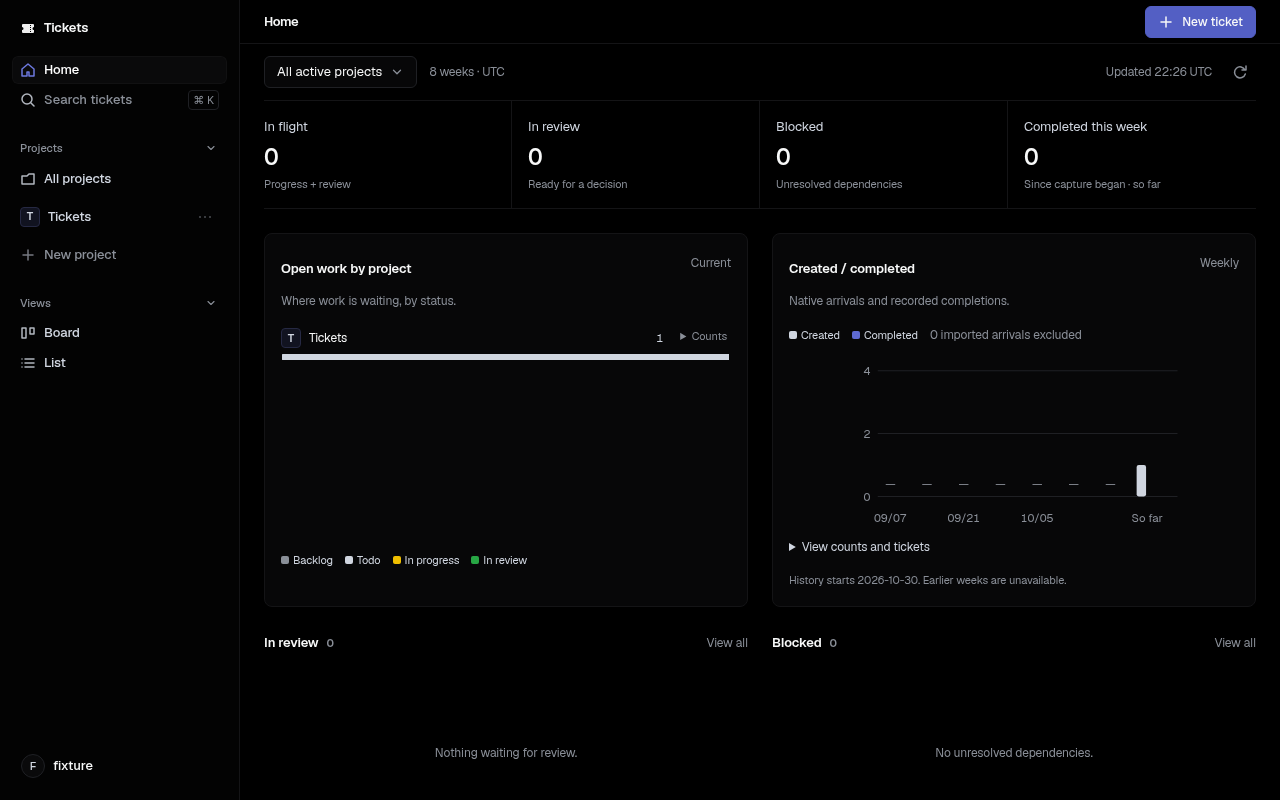
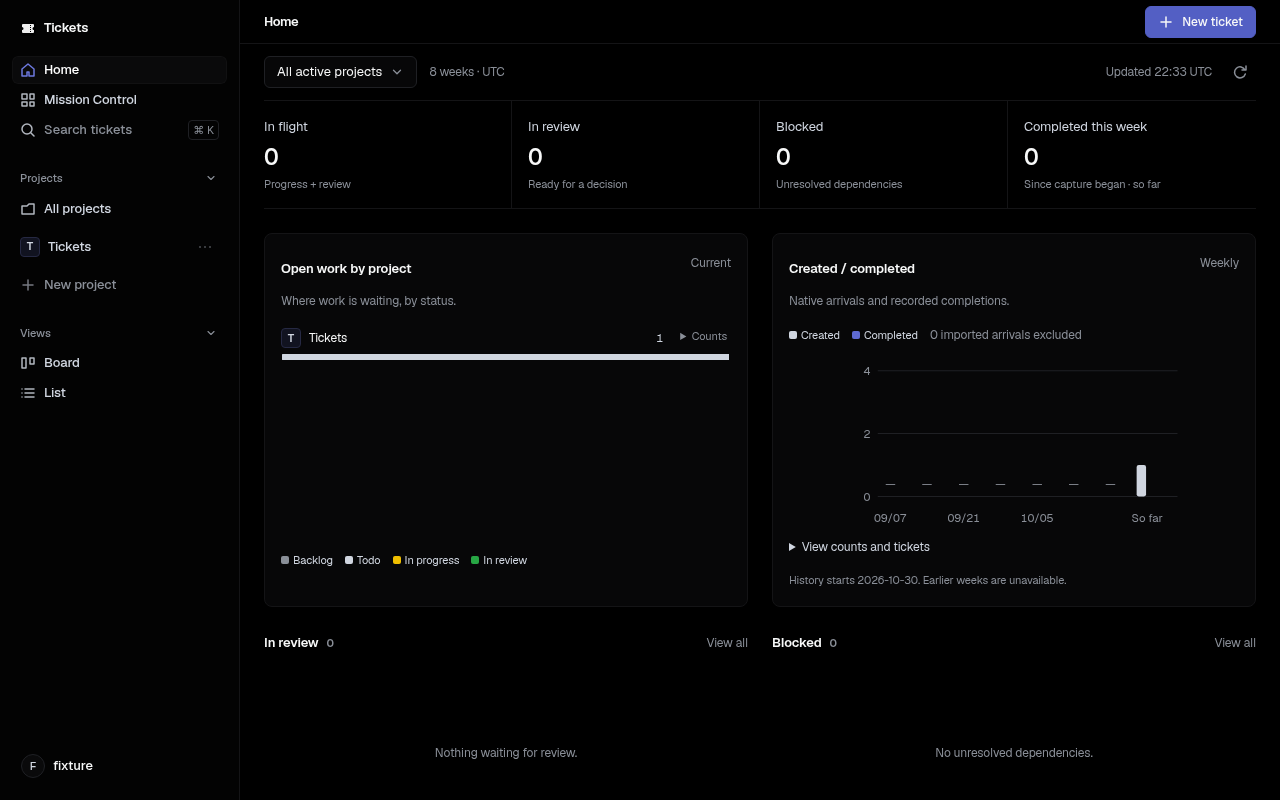
test(perf): refresh final merged screenshots and avoid duplicate smoke runs [TIK-71]

Changed region(s): [[0.0, 0.2188, 0.0938, 0.375], [0.0, 0.0938, 0.0938, 0.1875], [0.0, 0.4062, 0.0625, 0.5]]

diff --git a/docs/screenshots/TIK-71/README.md b/docs/screenshots/TIK-71/README.md
@@ -3,7 +3,7 @@
 `before-home*.png` are the approved TIK-65 after screenshots, retained as the
 current Home baseline. `after-home*.png` are generated by `perf-browser-check`
 against isolated local D1 with synthetic project/ticket data. The fixtures differ;
-this PR changes data loading and recovery. The merged upstream TIK-83 changes the default font; the performance work adds no styles or tokens.
+this PR changes data loading and recovery. The merged upstream TIK-83 changes the default font; the performance work adds no styles or tokens. Final captures include the merged Mission Control navigation.
 `requests.json` records browser endpoint paths only, without credentials.
 
 See `docs/performance/TIK-71.md` for measured D1 rows, caller audit and CPU limits.

diff --git a/docs/performance/TIK-71.md b/docs/performance/TIK-71.md
@@ -133,6 +133,6 @@ Questions skipped: fixed implementation scope and existing approved design.
 
 Local verification completed: `cargo xtask ci`, CSS lint, `perf-check`, API cache
 smoke, `perf-browser-check`, first-run, Home loading, Board/List loading, the
-48-example skill check, and fixture sidebar capture. Live behavior assertions
+documented-example skill check, and fixture sidebar capture. Live behavior assertions
 cover two windows, no hidden-tab reads, edit/drag deferral and reconnect recovery.
 A verified private xtask copy avoids cross-worktree executable replacement.
